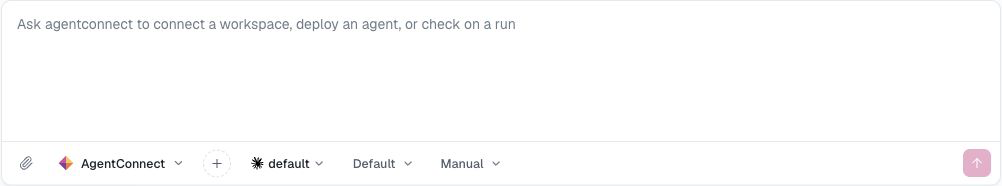
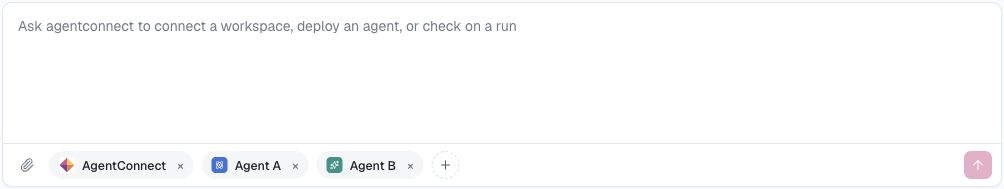
docs: refresh Home and multi-agent screenshots (#64)
* docs: show the complete Home view

* docs: show multiple agents in the Playground

diff --git a/docs/Build Your Team/Agents/multi-agent-work-modes.md b/docs/Build Your Team/Agents/multi-agent-work-modes.md
@@ -7,7 +7,7 @@ hidden: false
 AgentConnect is designed for teams of specialized agents. For most teams, the best starting point is several focused agents, each connected to its own bot or integration. Bring several into one conversation when people want to work with them together, and add agent-to-agent delegation when one agent should coordinate the work.
 
 <p align="center">
-  <img src="https://raw.githubusercontent.com/agentconnect-md/docs/HEAD/images/playground.png" alt="Several agents collaborating in one Playground session" width="780" />
+  <img src="https://raw.githubusercontent.com/agentconnect-md/docs/HEAD/images/playground.png" alt="Home composer with several agents selected for one Playground conversation" width="780" />
 </p>
 
 Layered specialists are a common next step, especially for pull-request review. Trigger fan-out and shared-bot routing are useful when a workflow specifically needs parallel opinions or one consolidated platform identity.

diff --git a/docs/Getting Started/getting-started.md b/docs/Getting Started/getting-started.md
@@ -11,7 +11,7 @@ Give each agent a role, then choose the runtime, model, workspace, memory, tools
 A small daemon runs the agents in the environment you operate. One console lets your team configure the fleet, connect channels and triggers, control access, and follow the work they are allowed to see.
 
 <p align="center">
-  <img src="https://raw.githubusercontent.com/agentconnect-md/docs/HEAD/images/console-home.png" alt="Start work from the AgentConnect console" width="900" />
+  <img src="https://raw.githubusercontent.com/agentconnect-md/docs/HEAD/images/console-home.png" alt="AgentConnect Home with recent sessions, agents, and scheduled runs" width="900" />
 </p>
 
 <Cards>

diff --git a/docs/Build Your Team/Agents/playground.md b/docs/Build Your Team/Agents/playground.md
@@ -7,7 +7,7 @@ hidden: false
 Playground is a private browser conversation with agents running on your daemons. Open it from an agent page for a single-agent session, or use the Home composer to bring several agents into the same conversation.
 
 <p align="center">
-  <img src="https://raw.githubusercontent.com/agentconnect-md/docs/HEAD/images/playground.png" alt="A Playground session" width="780" />
+  <img src="https://raw.githubusercontent.com/agentconnect-md/docs/HEAD/images/playground.png" alt="Home composer with several agents selected for one Playground conversation" width="780" />
 </p>
 
 ## What you get
